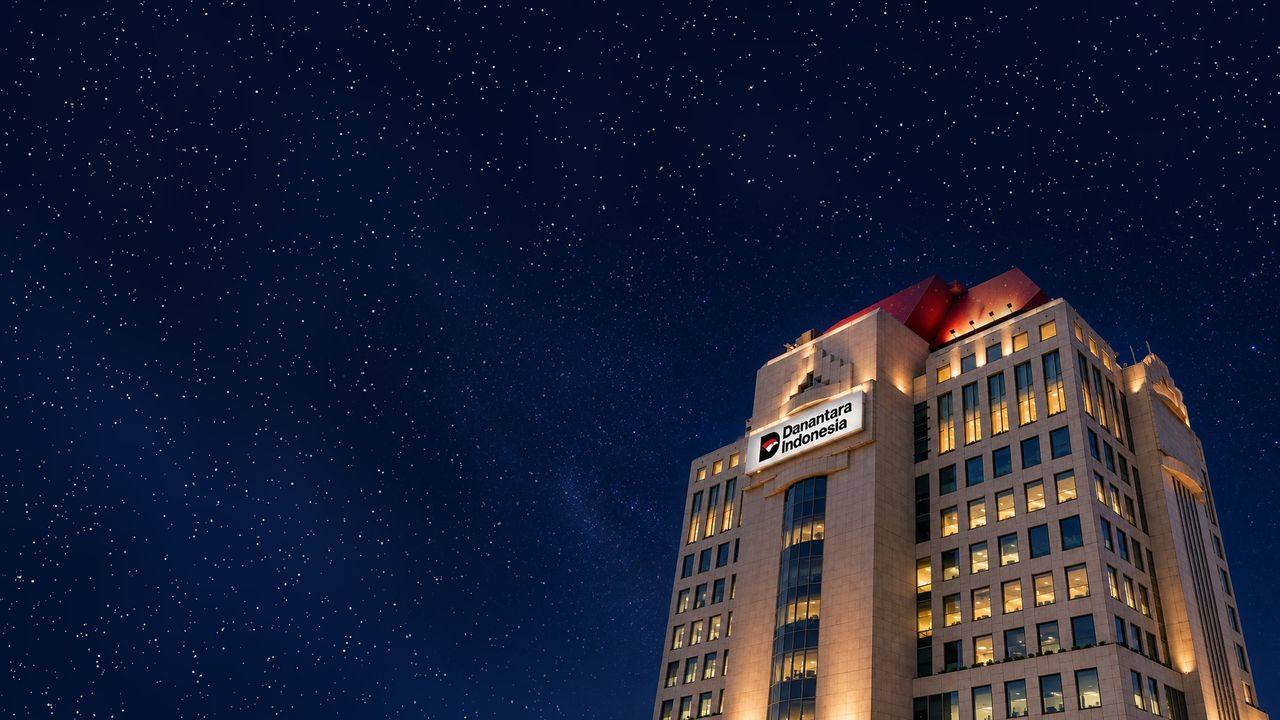
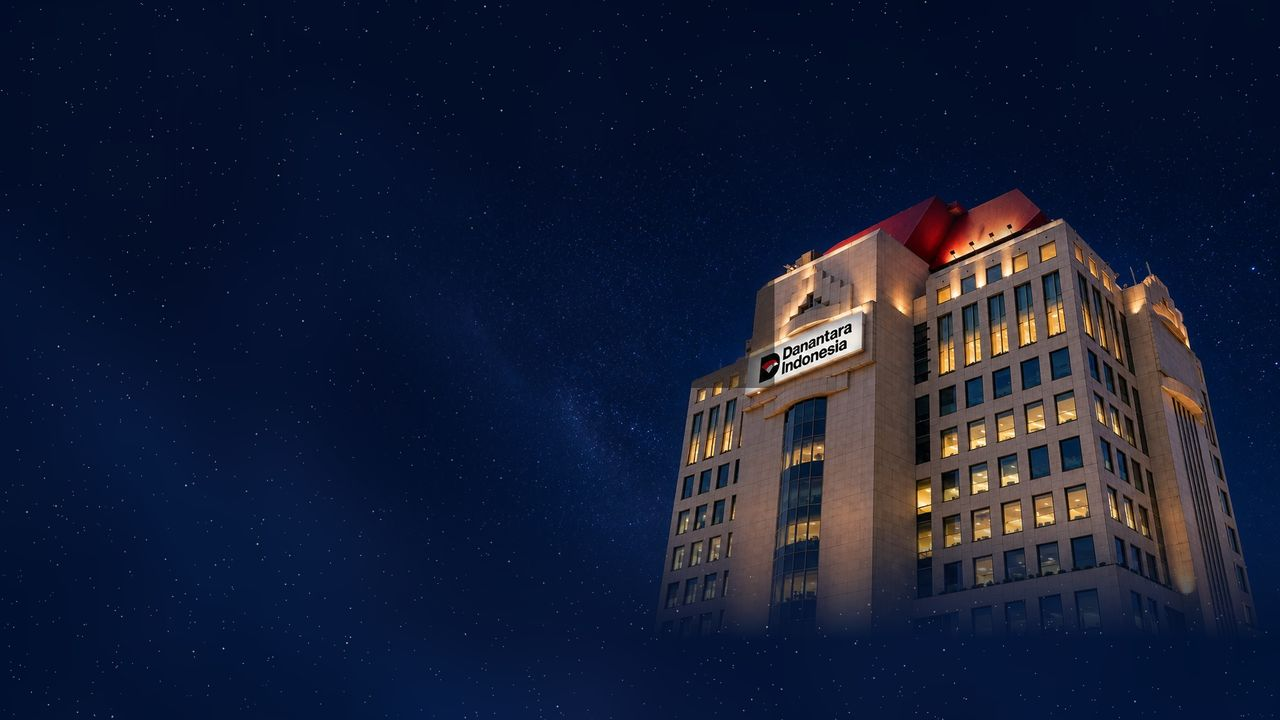
v0.16

Changed region(s): [[0.5, 0.2444, 1.0, 1.0], [0.4375, 0.55, 0.4688, 0.6417]]

diff --git a/donyoskaria/index.html b/donyoskaria/index.html
@@ -66,13 +66,13 @@
 <script src="loader.js?v=98"></script>
 <script>(function(){var done=false,fin=function(){if(done)return;done=true;try{GarudaLoader.complete()}catch(e){}};addEventListener("lok:update",fin,{once:true});setTimeout(function(){var l=document.getElementById("loading");if(l&&/Gagal/.test(l.textContent))fin()},4000);setTimeout(fin,20000);})();</script>
 
-<div id="heroBg" aria-hidden="true"><img class="hb-d" src="hero-dark.jpg?v=1" srcset="hero-dark-sm.jpg?v=1 1280w, hero-dark.jpg?v=1 2560w" sizes="100vw" alt="" fetchpriority="high" decoding="async"><img class="hb-l" src="hero-light.jpg?v=1" srcset="hero-light-sm.jpg?v=1 1280w, hero-light.jpg?v=1 2560w" sizes="100vw" alt="" decoding="async"></div>
+<div id="heroBg" aria-hidden="true"><img class="hb-d" src="hero-dark.jpg?v=2" srcset="hero-dark-sm.jpg?v=2 1280w, hero-dark.jpg?v=2 2560w" sizes="100vw" alt="" fetchpriority="high" decoding="async"><img class="hb-l" src="hero-light.jpg?v=2" srcset="hero-light-sm.jpg?v=2 1280w, hero-light.jpg?v=2 2560w" sizes="100vw" alt="" decoding="async"></div>
 <header class="topbar">
   <div class="brand">
     <img class="logo logo-dark" src="logo-dark.png?v=73" alt="Logo">
     <img class="logo logo-light" src="logo-light.png?v=73" alt="Logo">
     <span class="divider"></span>
-    <span class="brand-t"><b>Garuda Labs</b><small>Intelligent Media Monitoring</small></span><span class="beta" title="Versi 0.15 · diperbarui 30 Okt 2026">Beta<i class="ver">v0.15</i></span>
+    <span class="brand-t"><b>Garuda Labs</b><small>Intelligent Media Monitoring</small></span><span class="beta" title="Versi 0.16 · diperbarui 30 Okt 2026">Beta<i class="ver">v0.16</i></span>
   </div>
   <div class="top-r">
       <div class="dr">
